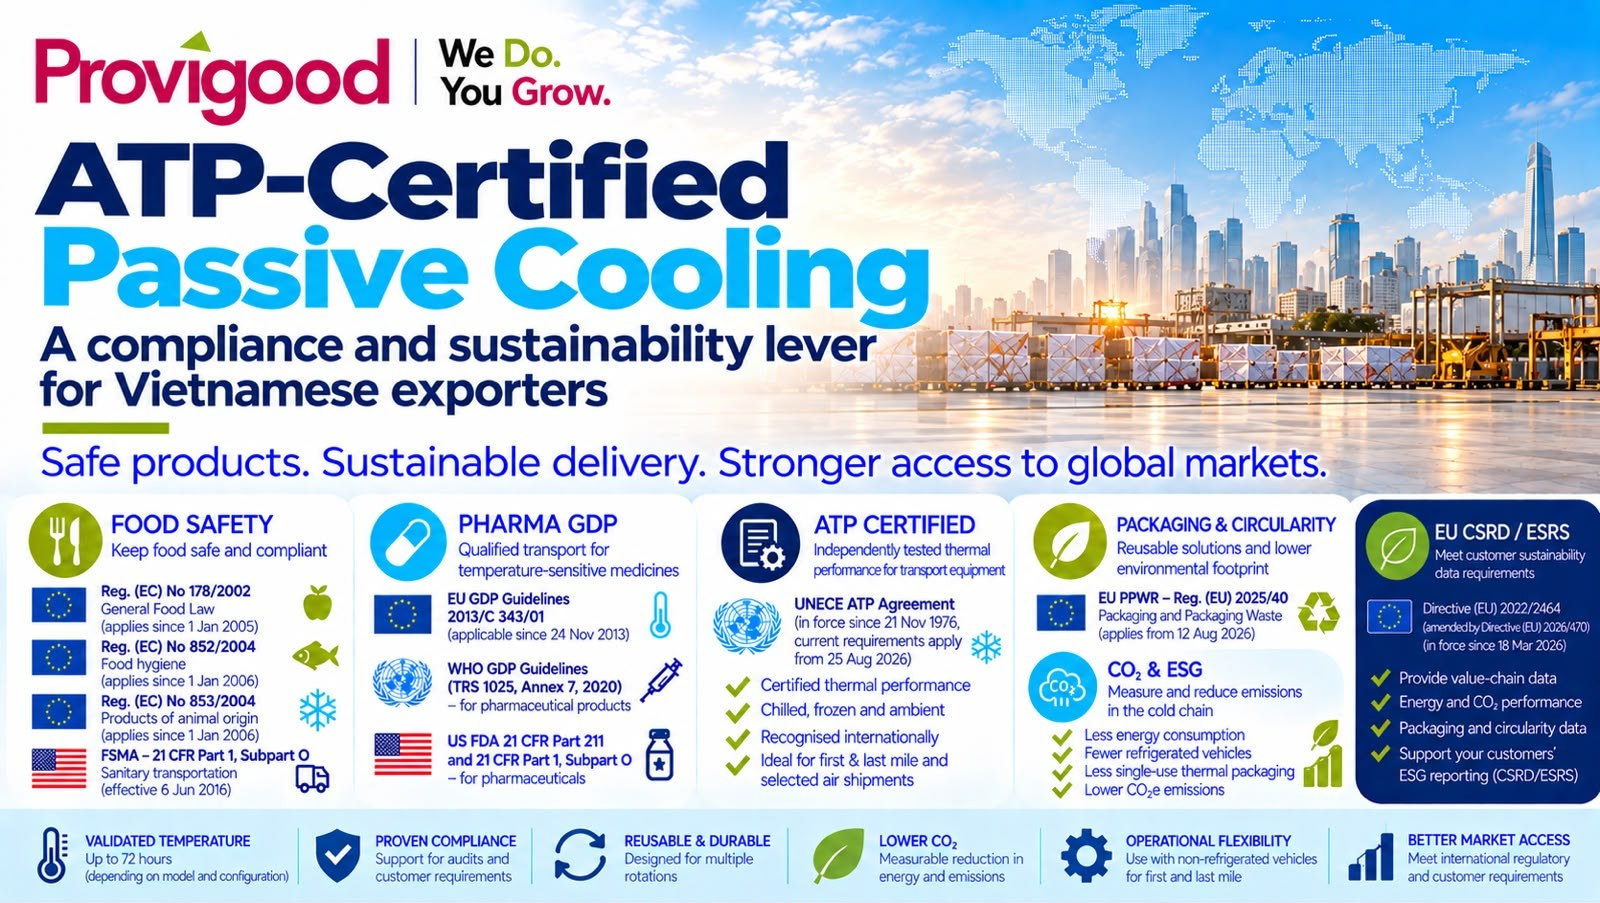
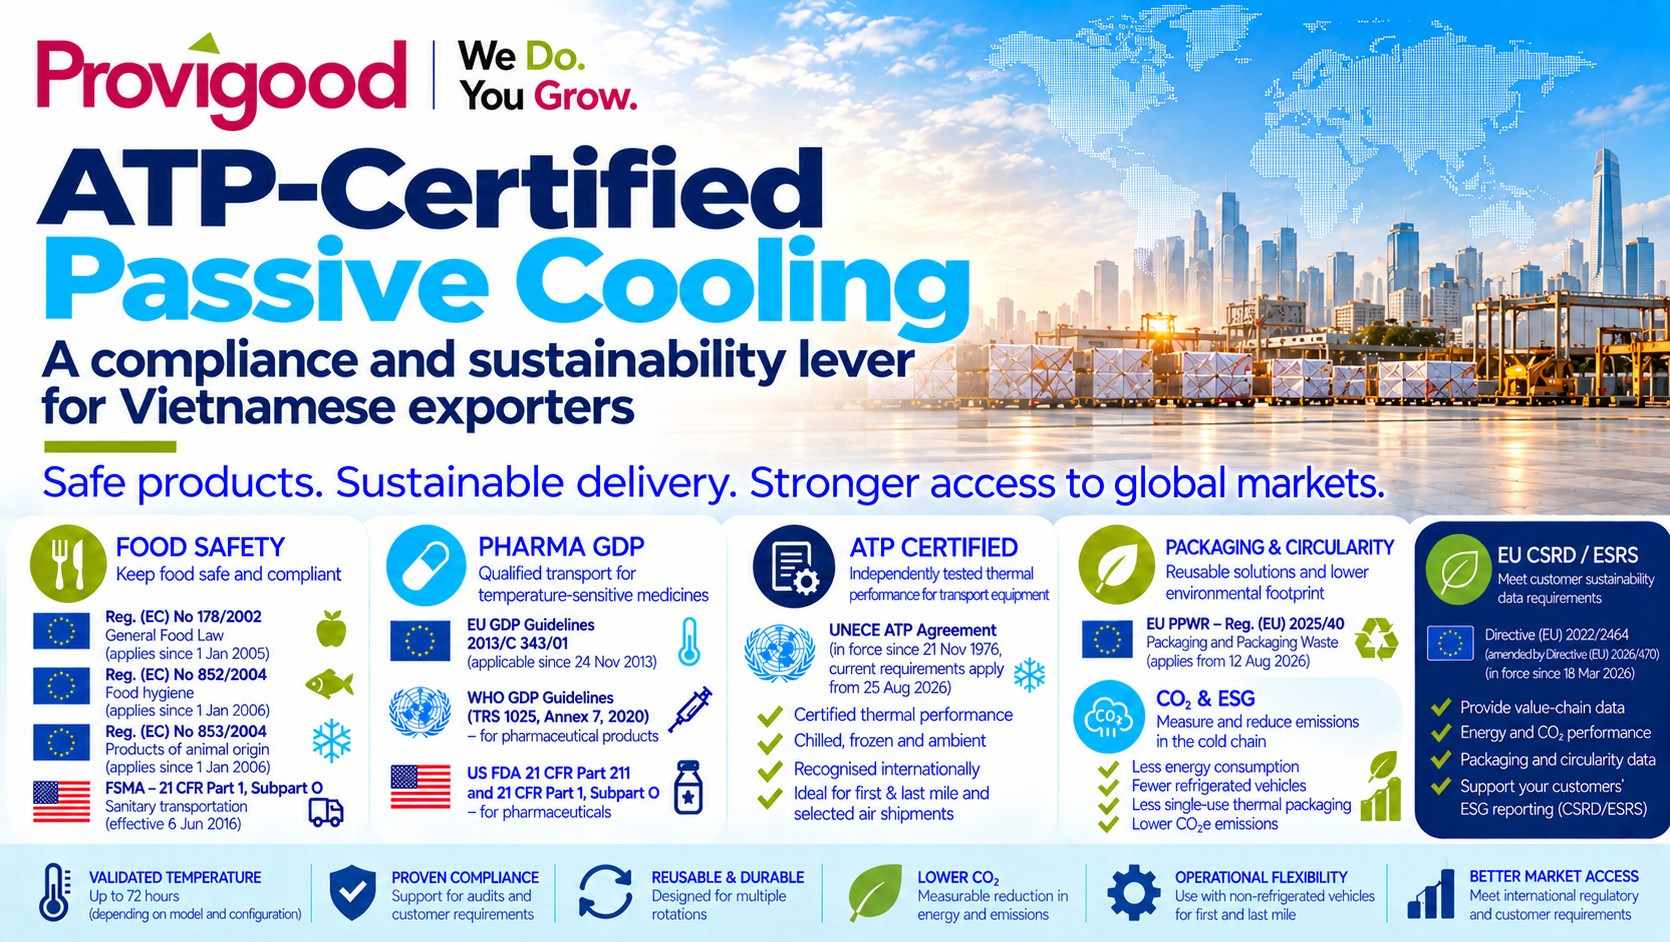
ATP article: higher-resolution in-article visual

diff --git a/fr/blog-froid-passif-certifie-atp-conformite-exportateurs-vietnamiens.html b/fr/blog-froid-passif-certifie-atp-conformite-exportateurs-vietnamiens.html
@@ -265,7 +265,7 @@
               <a href="../images/blog-8-olivo-compliance-infographic.jpg" target="_blank" rel="noopener noreferrer">
                 <picture>
                   <source type="image/webp" srcset="../images/blog-8-olivo-compliance-infographic.webp">
-                  <img src="../images/blog-8-olivo-compliance-infographic.jpg" alt="Froid passif Olivo certifié ATP pour le transport sous température dirigée : les référentiels de sécurité alimentaire, BPD pharmaceutiques, ATP, emballage et ESG qu'il peut appuyer, et ses atouts pour les exportateurs." width="1600" height="903" loading="lazy">
+                  <img src="../images/blog-8-olivo-compliance-infographic.jpg" alt="Froid passif Olivo certifié ATP pour le transport sous température dirigée : les référentiels de sécurité alimentaire, BPD pharmaceutiques, ATP, emballage et ESG qu'il peut appuyer, et ses atouts pour les exportateurs." width="1670" height="942" loading="lazy">
                 </picture>
               </a>
               <figcaption style="margin-top: 8px; font-size: 13px; line-height: 1.5; font-style: italic; text-align: center; color: var(--color-text-soft);">Le froid passif certifié ATP d'Olivo et les référentiels réglementaires qu'il peut appuyer. Cliquez sur l'image pour l'agrandir.</figcaption>

diff --git a/en/blog-atp-certified-passive-cooling-compliance-vietnam-exporters.html b/en/blog-atp-certified-passive-cooling-compliance-vietnam-exporters.html
@@ -264,7 +264,7 @@
               <a href="../images/blog-8-olivo-compliance-infographic.jpg" target="_blank" rel="noopener noreferrer">
                 <picture>
                   <source type="image/webp" srcset="../images/blog-8-olivo-compliance-infographic.webp">
-                  <img src="../images/blog-8-olivo-compliance-infographic.jpg" alt="Olivo ATP-certified passive cooling for controlled-temperature transport: the food-safety, pharmaceutical GDP, ATP, packaging and ESG frameworks it can support, and its key benefits for exporters." width="1600" height="903" loading="lazy">
+                  <img src="../images/blog-8-olivo-compliance-infographic.jpg" alt="Olivo ATP-certified passive cooling for controlled-temperature transport: the food-safety, pharmaceutical GDP, ATP, packaging and ESG frameworks it can support, and its key benefits for exporters." width="1670" height="942" loading="lazy">
                 </picture>
               </a>
               <figcaption style="margin-top: 8px; font-size: 13px; line-height: 1.5; font-style: italic; text-align: center; color: var(--color-text-soft);">Olivo ATP-certified passive cooling and the regulatory frameworks it can support. Click the image to enlarge.</figcaption>
